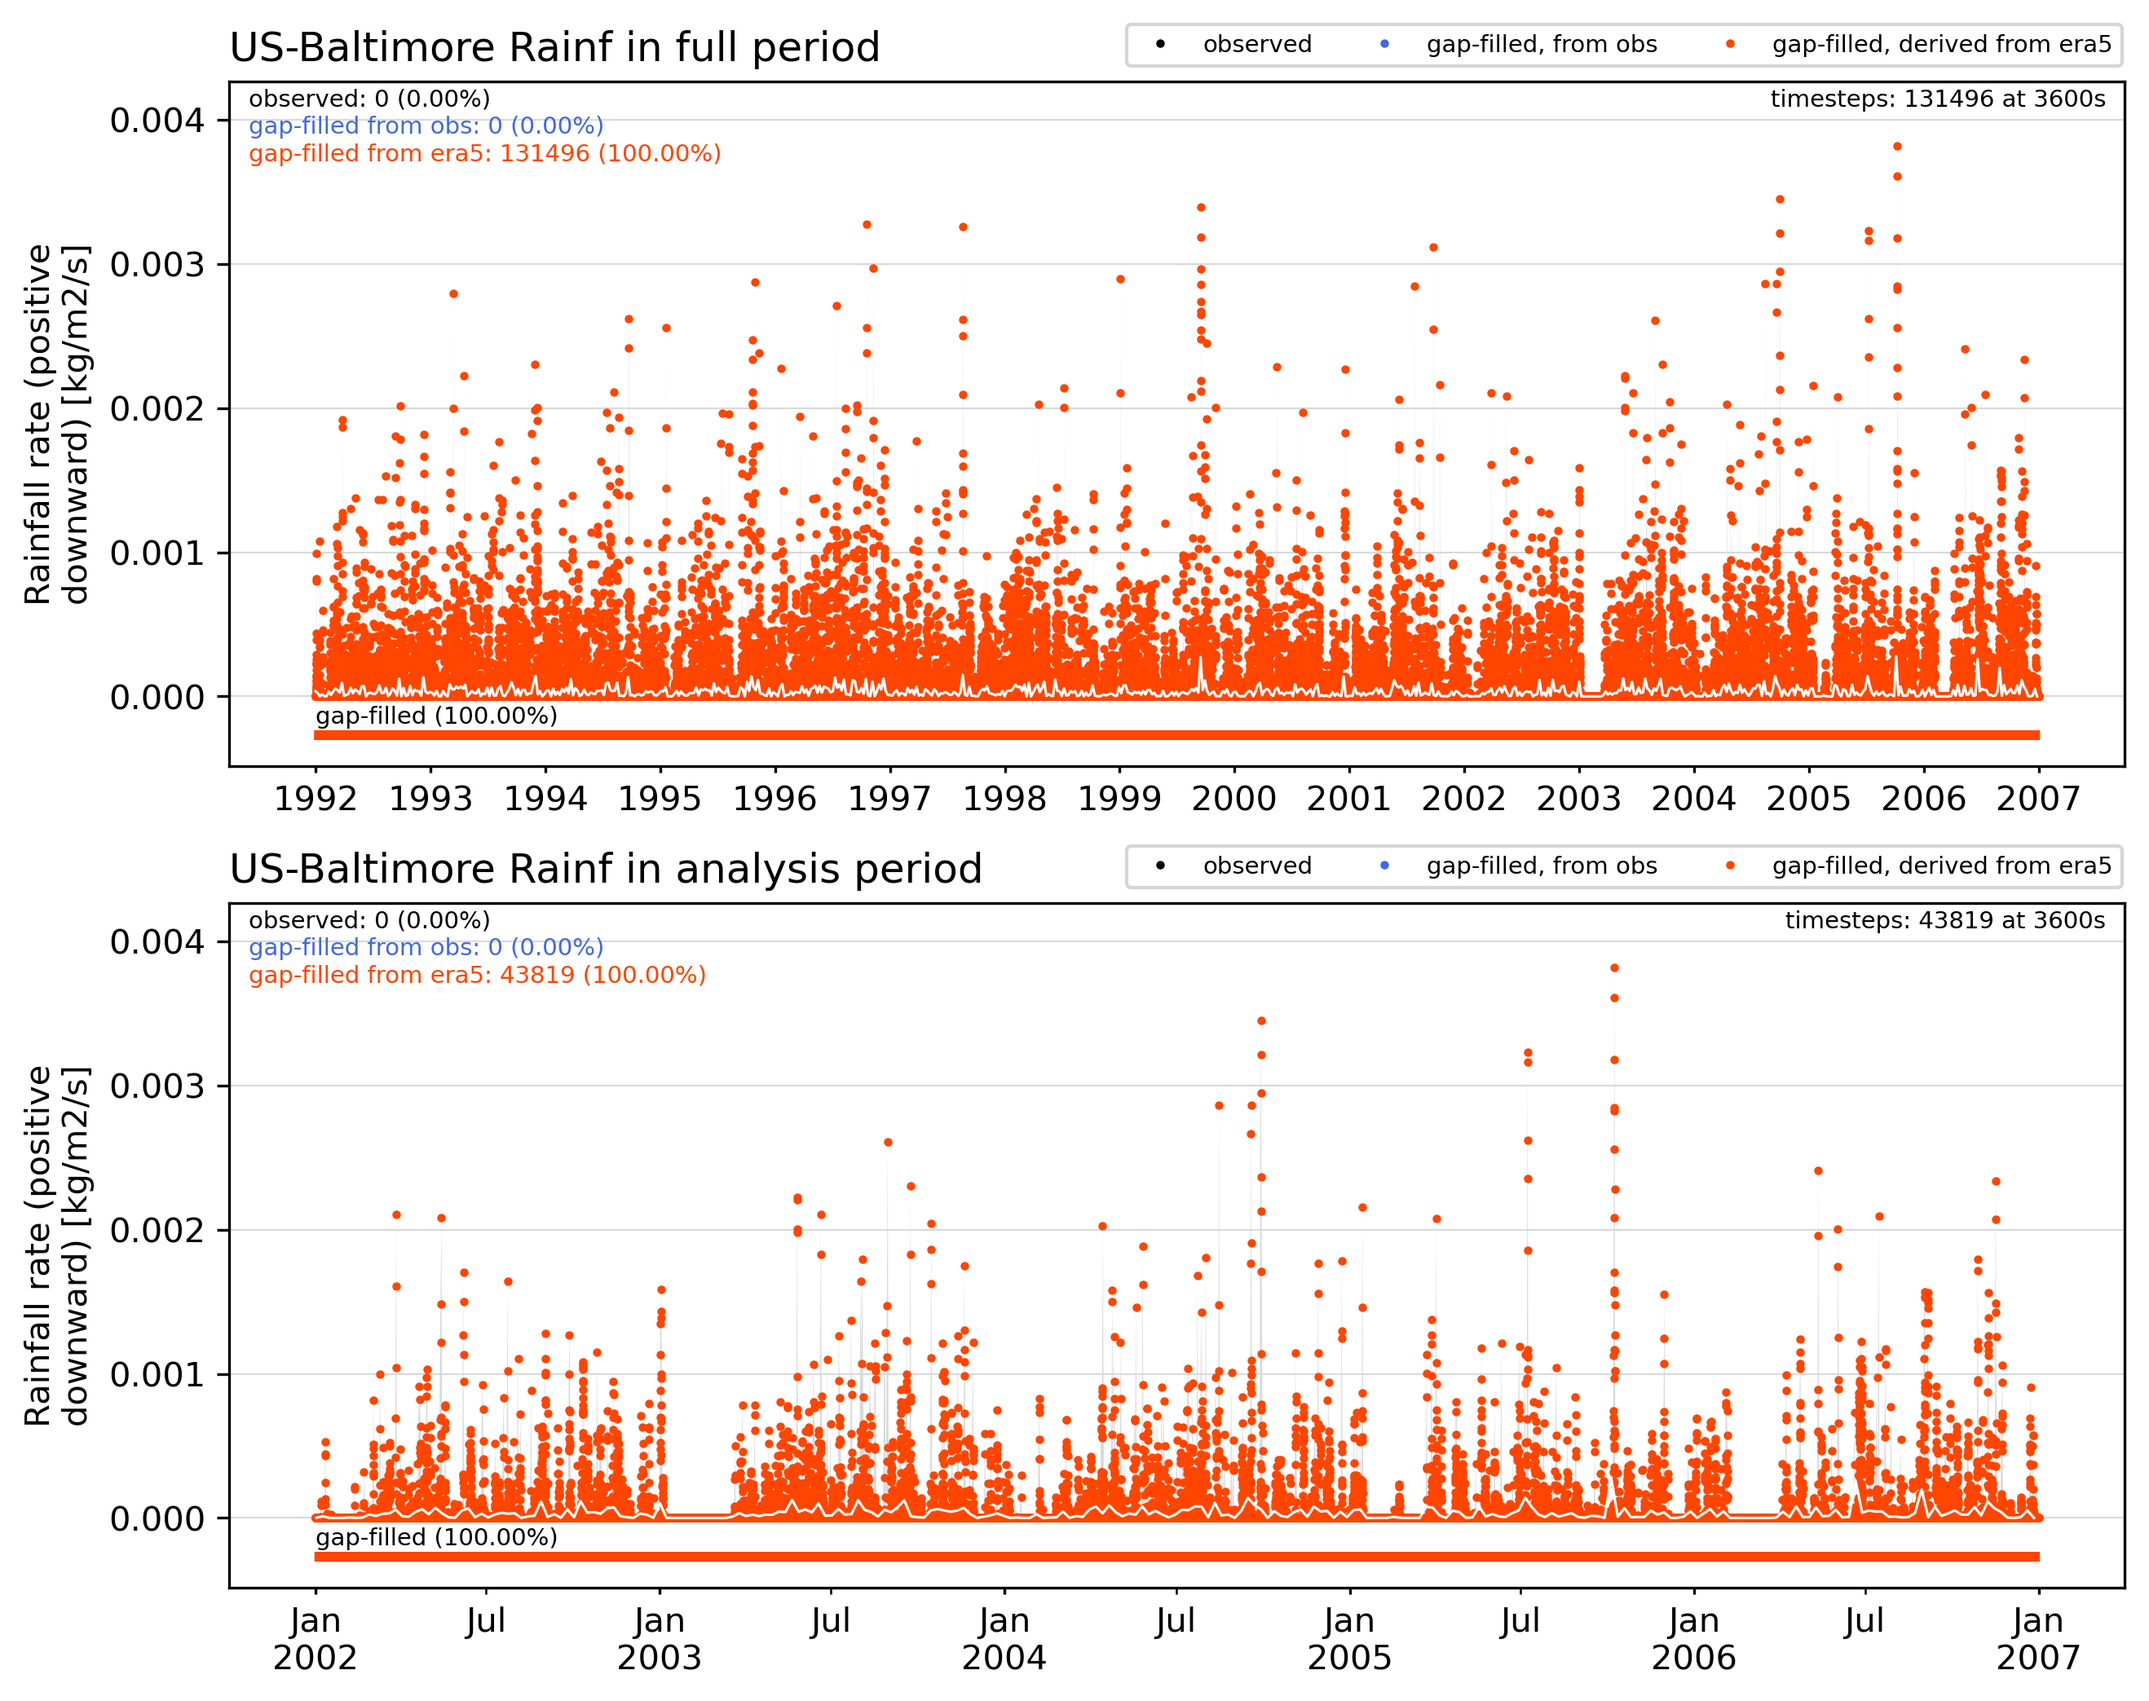
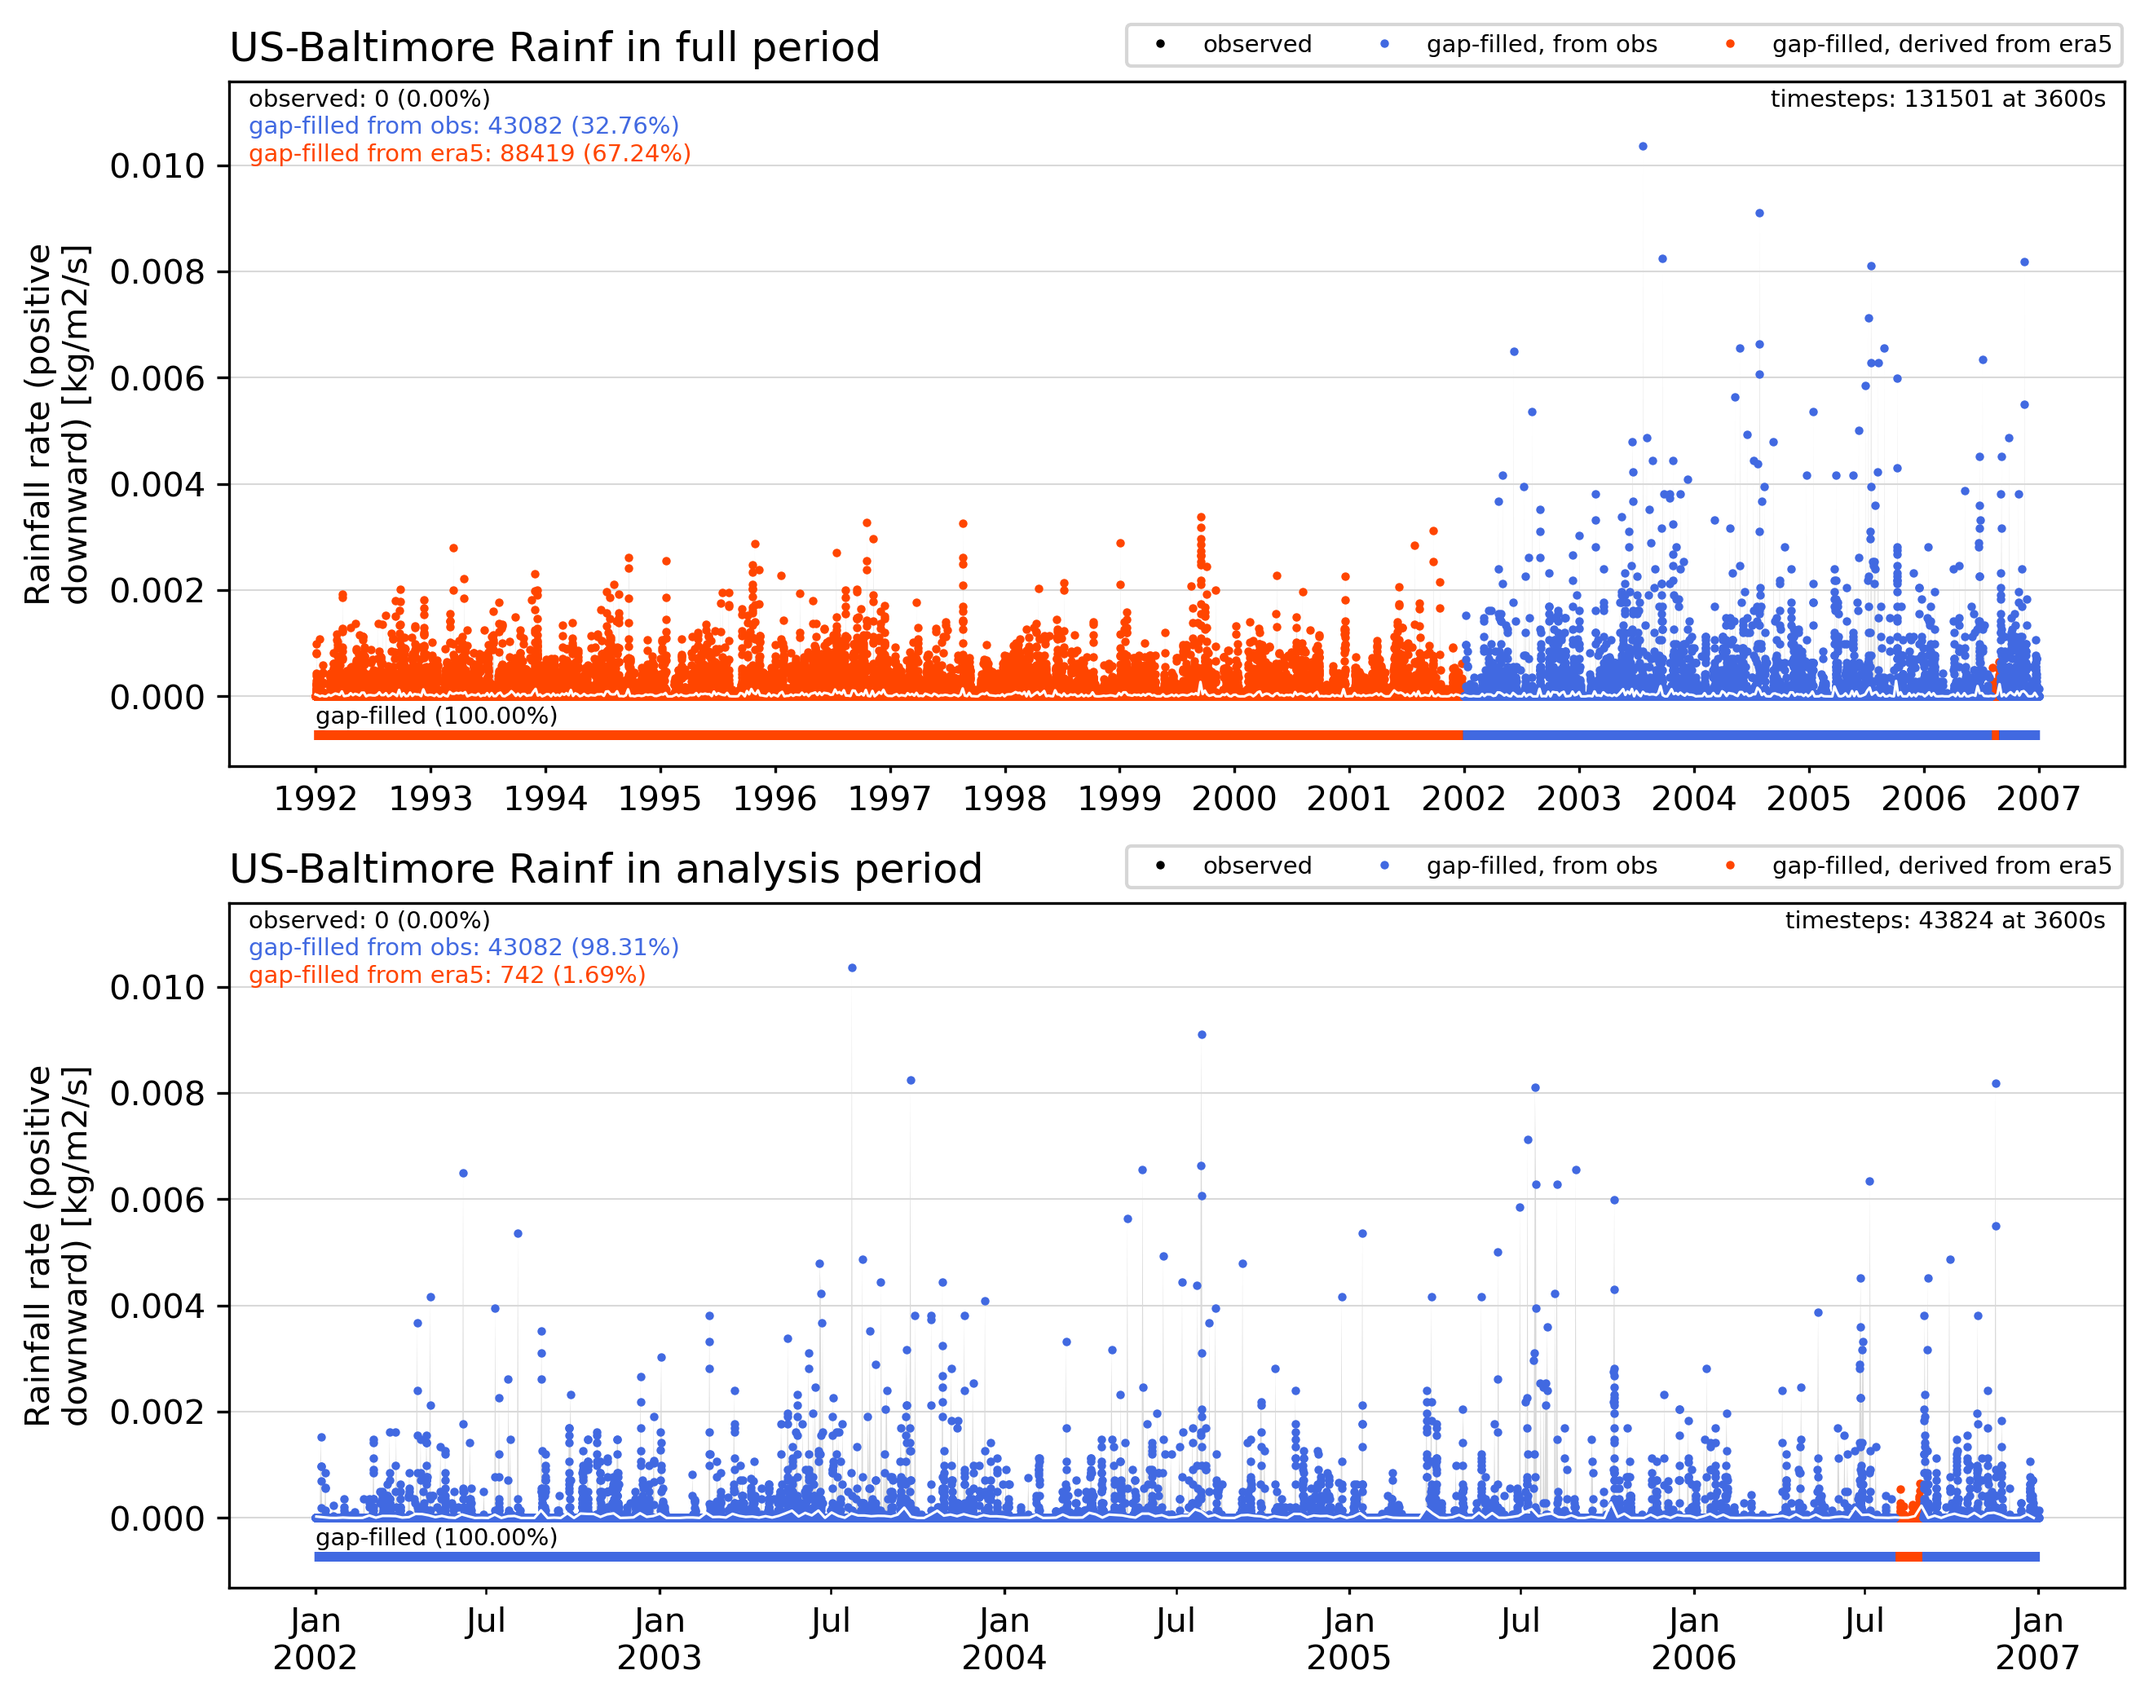
update Baltimore rainfall

diff --git a/US-Baltimore/index.md b/US-Baltimore/index.md
@@ -13,20 +13,20 @@
 | conventions               | ALMA+CF.rev13                                                                                                                                                                                                        |
 | featureType               | timeSeries                                                                                                                                                                                                           |
 | time_coverage_start       | 1992-01-01 00:00:00                                                                                                                                                                                                  |
-| time_coverage_end         | 2006-12-31 23:00:00                                                                                                                                                                                                  |
+| time_coverage_end         | 2007-01-01 04:00:00                                                                                                                                                                                                  |
 | time_analysis_start       | 2002-01-01 05:00:00                                                                                                                                                                                                  |
 | time_shown_in             | UTC                                                                                                                                                                                                                  |
 | local_utc_offset_hours    | -5.0                                                                                                                                                                                                                 |
 | timestep_interval_seconds | 3600.0                                                                                                                                                                                                               |
 | timestep_number_spinup    | 87677                                                                                                                                                                                                                |
-| timestep_number_analysis  | 43819                                                                                                                                                                                                                |
+| timestep_number_analysis  | 43824                                                                                                                                                                                                                |
 | observations_contact      | Sue Grimmond (c.s.grimmond@reading.ac.uk), Ben Crawford (benjamin.crawford@ucdenver.edu)                                                                                                                             |
 | observations_reference    | Crawford, Grimmond and Christen (2011): https://doi.org/10.1016/j.atmosenv.2010.11.017                                                                                                                               |
 | project_contact           | Mathew Lipson: m.lipson@unsw.edu.au, Sue Grimmond: c.s.grimmond@reading.ac.uk, Martin Best: martin.best@metoffice.gov.uk                                                                                             |
-| date_created              | 2021-04-08 14:37:20                                                                                                                                                                                                  |
+| date_created              | 2021-04-12 14:53:59                                                                                                                                                                                                  |
 | other_references          | ERA5: Copernicus Climate Change Service (C3S) (2017): https://cds.climate.copernicus.eu/cdsapp#!/home                                                                                                                |
 | acknowledgements          | Contains modified Copernicus Climate Change Service Information (ERA5 hourly data on single levels). With thanks to all involved in collecting, processing and sharing observational data                            |
-| comment                   | nan                                                                                                                                                                                                                  |
+| comment                   | Hourly rainfall from Baltimore Washington International Airport where available                                                                                                                                      |
 
 ## Site images
 

diff --git a/sites.md b/sites.md
@@ -13,6 +13,10 @@
 
  - [JP-Yoyogi](./JP-Yoyogi): Yoyogi, Tokyo, Japan 
 
+ - [KR-Jungnang](./KR-Jungnang): Jungnang, Seoul, South Korea 
+
+ - [KR-Ochang](./KR-Ochang): Ochang, South Korea 
+
  - [MX-Escandon](./MX-Escandon): Escandon, Mexico City, Mexico 
 
  - [NL-Amsterdam](./NL-Amsterdam): Amsterdam, The Netherlands 
